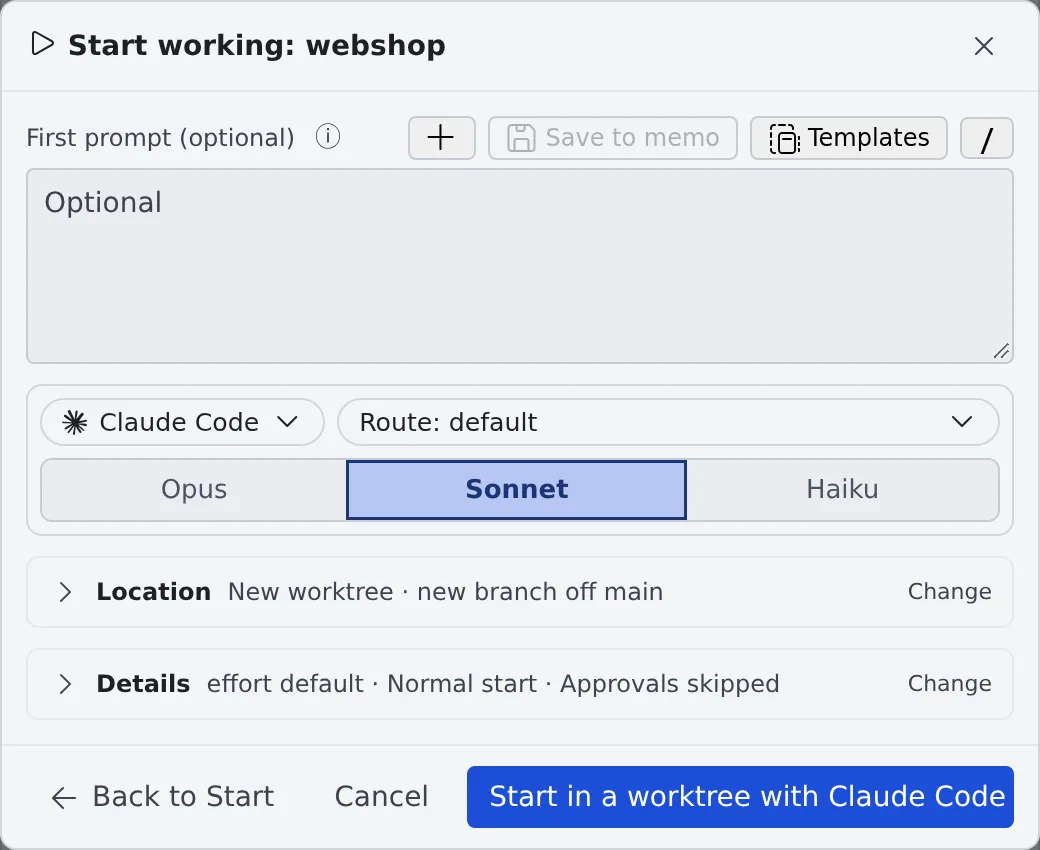
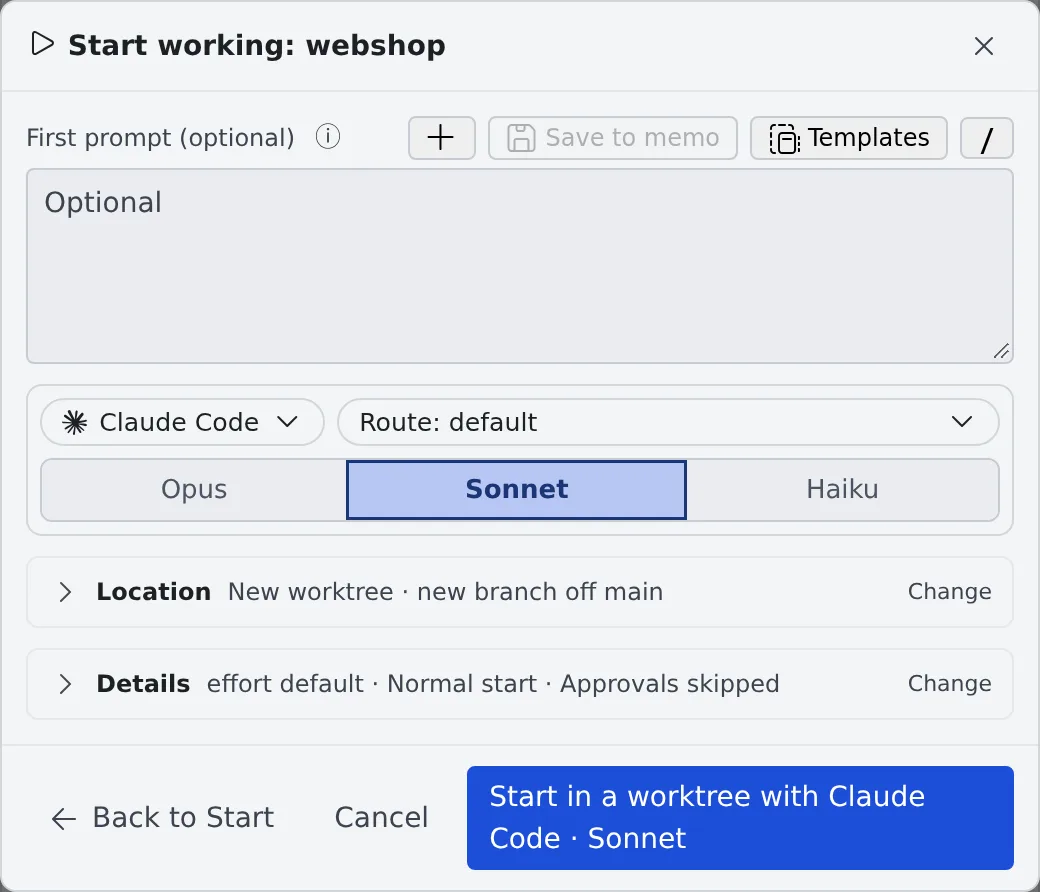
docs(guide): retake the launch dialog pictures and align the Details wording
The launch dialog pictures predate the fix for the clipped launch button
label (#5186 / #5203), and step 4 of start.md said Details shows only the
settings that are not at their defaults. The dialog's Details summary
always lists every value the launch will use, defaults included
("effort default · Normal start · Approvals skipped"); that is deliberate
(see the header comment of LaunchModal.tsx).

Retook sessions-launch-{en,ja}-light.webp with the shots harness
(console/scripts/shots/capture.mjs --only sessions-launch); the button now
wraps instead of clipping. Reworded step 4 in start.md and start.ja.md to
say Details summarises every setting, defaults included.

Verified: viewed both new pictures; scripts/docs-check.py and
.githooks/pre-commit pass.

Refs #5422

diff --git a/guide/user/sessions/start.ja.md b/guide/user/sessions/start.ja.md
@@ -63,7 +63,7 @@ source_of_truth: "Console のワークスペース操作バーの「はじめる
 1. 必要なら「**最初のプロンプト（任意）**」に指示を書きます。起動して準備ができたら、1 回だけ自動で送られます。空なら送らずに開くだけです
 2. プロンプトの下の帯で、エージェント・経路・モデルを確かめます（[何で動かすか](#何で動かすか)）
 3. 「**場所**」には、どこで動かすかが出ています。既定は新しい worktree です。変えるときだけ「**変更**」を押します
-4. 「**詳細**」には、既定から変えた設定が出ています。ほかの設定を変えるときは「**変更**」を押します（[詳細](#詳細)）
+4. 「**詳細**」には、起動に使う設定が、既定のものも含めてすべて一行で出ています。変えるときは「**変更**」を押します（[詳細](#詳細)）
 5. 起動ボタンを押します。ボタンには動かすものの名前が入っています（例：「**worktree で Claude Code · Opus を始める**」。このコピーで直接始めるときは「**Claude Code · Opus で始める**」）
 
 そのリポジトリで最後に使ったエージェントと、そのリポジトリでそのエージェントに最後に使ったモデルが最初から選ばれているので、たいていはプロンプトを書くだけで始められます。

diff --git a/guide/user/sessions/start.md b/guide/user/sessions/start.md
@@ -63,7 +63,7 @@ The dialog asks what, then with what, then where, then the details.
 1. If you want, write an instruction in **First prompt (optional)**. It is sent once, automatically, as soon as the session is ready. Left empty, the session just opens
 2. Check the **run-with strip** under the prompt ([Run with](#run-with)): the agent, the model route and the model
 3. **Location** shows where the session will run: a new worktree by default. Press **Change** only to change it
-4. **Details** shows any setting that is not at its default. Press **Change** to change the rest ([Details](#details))
+4. **Details** summarises every setting the launch will use, defaults included (for example "effort default · Normal start · Approvals skipped"). Press **Change** to change any of them ([Details](#details))
 5. Press the launch button. It names what will run, for example **Start in a worktree with Claude Code · Opus**
    (**Start with Claude Code · Opus** when you start directly in this copy)
 
